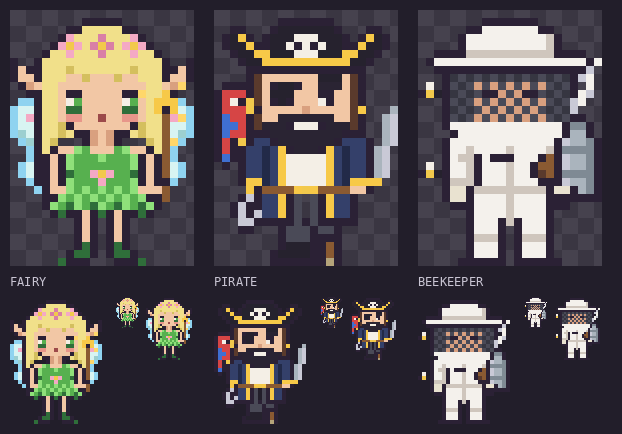
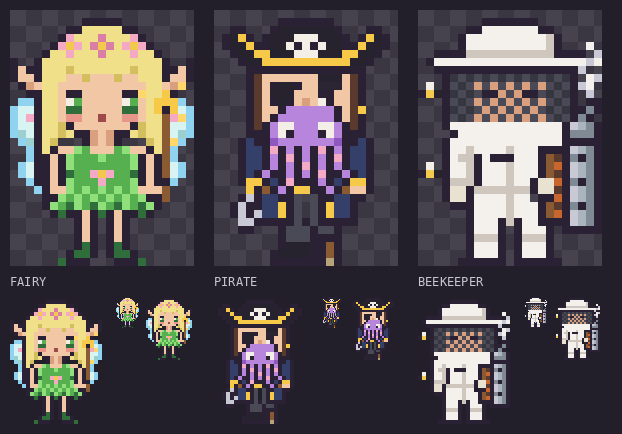
Pirate: octopus beard, no cutlass or parrot; beekeeper: new smoker; docs
Claude-Session: https://claude.ai/code/session_01YBrgJgq2b9doDCh6j6S5bC

diff --git a/drafts/workers-fairy-pirate-beekeeper.js b/drafts/workers-fairy-pirate-beekeeper.js
@@ -1,11 +1,11 @@
-// Черновик сотрудников: фея эльфийка, пират, пчеловод. В игру ещё не вставлены, ждут одобрения.
+// Черновик сотрудников: фея эльфийка, пират, пчеловод. В игру ещё не вставлены, ждут одобрения. Перки и скиллы ещё обсуждаются.
 // Спрайты 23×32, RLE как в game/index.html. Новых цветов в PAL нет. Превью drafts/fairy-pirate-beekeeper-preview.png.
 
 // ===== Фея эльфийка: светлые волосы, венок из цветов, длинные острые уши, зелёные глаза, платье из листьев, прозрачные крылья, волшебная палочка со звездой =====
   const FAIRY = ['23.', '9.5k9.', '7.2k5y2k7.', '6.kl3yz3ylk6.', '5.klqlyzqzylqlk5.', '4.k2yl3yz3yl2yk4.', 'k2.k15yk2.k', 'ks2k3yY7yY3y2ksk', 'k2sk3y2sY3sY2s3yk2sk', '.kSs2y11s2ysS*.', '2.2k2ys2k5s2k*2yZk2.', '.2?k2ysw:5sw:sy3Z?.', '?2[k2ys2/5s2/syZkZ[?', '?[lk2ys2c2sm2s2cs2yCl*?', '?2[k2yYk7skY2yC2[?', '?][k2yYy2kSsS2kyY2yC[]?', '.?]kyY3.kSsSk3.YyC*?.', '2.?kyk2s;:3s:;2skyC?2.', '2.?2ksk;3:;3:;kskC?2.', '.?[2ksk;7:;kskC[?.', '.?[2ksk/2:lql2:/kskC[?.', '2.?2ksk;3:l3:;ks2k?2.', '3.?k2s;:;:;:;:;3sC3.', '4.2k;:;:;:;:;:;2kC3.', '4.k;:/;:/;:/;:/;k4.', '5.k/2ksk/ks2k/k5.', '8.ksk.ksk8.', '8.ksk.ksk8.', '8.ksk.ksk8.', '8.k/k.k/k8.', '7.k2/k.k2/k7.', '6./3k3.3k/6.'];
 
-// ===== Пират: треуголка с черепом, повязка на глазу, чёрная борода, серьга, синий камзол с золотом, крюк, сабля, деревянная нога, красный попугай на плече =====
-  const PIRATE = ['23.', '8.7k8.', '2.2k3.k7bk3.2k2.', '.kbZk.k3b3w3bk.kZbk.', '.k2bZ2k2bwkwkw2b2kZ2bk.', '2.k2b2Z3b3w3b2Z2bk2.', '3.k2b11Z2bk3.', '4.15k4.', '4.kB7s3bsBk4.', '.4kBsk2bk2s3hsBk4.', 'k3$kBs3b3s2k2sBk4.', 'k$wkqBskbk3swk2sBk4.', 'k3$qk5sS5sBZ3.a', 'k@2$kB2s7h2sBk2.ap', 'k2@$kB3hk3wk3hBk2.ap', 'k@2$3k9h3k2.ap', 'k$kqk2,k7hk3,k.ap', 'k$2k2,",Zk3hkZ,"2,kap.', 'k@2k2,",Z5wZ,"2,kap.', '.k.k2,",Z5wZ,"2,kap.', '3.k2,",Z5wZ,"2,kap.', '3.k2Z",Z5wZ,"4Z2.', '4.Zk4CZqZ4C2sk3.', '3.kpk2,Zkg.gkZ2,k5.', '2.kp2k2,Zkg.gkZ2,k5.', '2.kpkp2,Zkg.gkZ2,k5.', '3.2p5kgkg5k5.', '3.2k3.k3gk2gk7.', '8.k3g4k7.', '8.k3b2kCk7.', '7.k4b2kCk7.', '7.7kFk7.'];
+// ===== Пират: треуголка с черепом, повязка на глазу, вместо бороды присосавшийся фиолетовый осьминог, серьга, синий камзол с золотом, крюк, деревянная нога =====
+  const PIRATE = ['23.', '8.7k8.', '2.2k3.k7bk3.2k2.', '.kbZk.k3b3w3bk.kZbk.', '.k2bZ2k2bwkwkw2b2kZ2bk.', '2.k2b2Z3b3w3b2Z2bk2.', '3.k2b11Z2bk3.', '4.15k4.', '4.kB7s3bsBk4.', '4.kBsk2bk2s3hsBk4.', '4.kBs3b3s2k2sBk4.', '4.kBskbksSswk2sBk4.', '4.kB2sk6фksBZ4.', '4.kBsk7фksBk4.', '4.kBkф2w3ф2wфkBk4.', '4.3kфwk3фkwф3k4.', '3.k,2kч7фч2k,k3.', '3.k2,klkфkфklkфk2,k3.', '3.k2,kфklkфkфklk2,k3.', '3.k2,kфkфklkфkфk2,k3.', '3.k,kф2kфkфkl2kфk,k3.', '3.k2Zk,kl3kфk,k2Zk3.', '4.ZkCkфkZq2kфkC2sk3.', '3.kpk2,2kg.g2k2,2k4.', '2.kp2k2,Zkg.gkZ2,k5.', '2.kpkp2,Zkg.gkZ2,k5.', '3.2p5kgkg5k5.', '3.2k3.k3gk2gk7.', '8.k3g4k7.', '8.k3b2kCk7.', '7.k4b2kCk7.', '7.7kFk7.'];
 
-// ===== Пчеловод: полностью белый защитный костюм, шлем с сеткой (лицо видно сквозь сетку), белые перчатки, дымарь с мехами в руке, две пчёлы =====
-  const BEEKEEPER = ['23.', '8.7k8.', '6.2k7W2k6.', '5.k10WDk5.', '5.k10WDk5.', '2.4k11D4k2.', '.k19WkW', '2.19kp.', '3.kGgGgGgGgGgGgGgGkpW.', '.w.kgGgSgSgSgSgSgGgk.W.', 'kqbkGgGg2kSgS2kgGgGkWp.', '3.kgGgSgSgSgSgSgGgpW2.', '3.kGgGgSgSgSgSgGgGp3.', '3.kgGgSgSgSgSgSgGg2k2.', '3.k14Wk2Ak.', '4.k13Wk2ak.', '3.k13Wkp2aAk', '3.k2WD4WD4WDk4Ak', '3.kW2DkW3k3WkCkp2aAk', '.w.k2WDk3WD2Wk2Ckp2aAk', 'kqbk2WDk3WD2WkBCk4Ak', '3.k3Dk3WD3W3kp2aAk', '3.k2xk9Dk2xkaAk', '3.k2xk4WD4W7k', '4.3k4WD4W3k4.', '6.k4WD4Wk6.', '6.k3WkDk3Wk6.', '6.k3Wk.k3Wk6.', '6.k3Dk.k3Dk6.', '6.k3Wk.k3Wk6.', '6.k3Wk.k3Wk6.', '5.6k.6k5.'];
+// ===== Пчеловод: полностью белый защитный костюм, шлем с сеткой (лицо видно сквозь сетку), белые перчатки, дымарь (жестяной бак с решёткой, крышка с изогнутым носиком, меха сбоку), две пчёлы =====
+  const BEEKEEPER = ['23.', '8.7k8.', '6.2k7W2k6.', '5.k10WDk5.', '5.k10WDk3.W.', '2.4k11D4k.p', '.k19WpW', '2.18kp2.', '3.kGgGgGgGgGgGgGgGk.Wp', '.w.kgGgSgSgSgSgSgGgkpW.', 'kqbkGgGg2kSgS2kgGgGk.p.', '3.kgGgSgSgSgSgSgGgk.2k', '3.kGgGgSgSgSgSgGgG2kAk', '3.kgGgSgSgSgSgSgGgkAk.', '3.k14WkpaAk', '4.k13Wk3Ak', '3.k14W5k', '3.k2WD4WD3W4kpaAk', '3.kW2DkW3k3WkCBkAkAk', '.w.k2WDk3WD3WkC-kpaAk', 'kqbk2WDk3WD3WkCBkpaAk', '3.k3Dk3WD2Wk2x-kAkAk', '3.k2xk7Dk2xBkpaAk', '3.k2xk4WD2W.2k-kpaAk', '4.3k4WD3WkCBkAkAk', '6.k4WD3WkC-kpaAk', '6.k3WkDk2W4kpaAk', '6.k3Wk.k3Wk.5k', '6.k3Dk.k3Dk6.', '6.k3Wk.k3Wk6.', '6.k3Wk.k3Wk6.', '5.6k.6k5.'];

diff --git a/docs/employees.md b/docs/employees.md
@@ -130,3 +130,11 @@
 «Восстание из мёртвых» срабатывает один раз за забег, это нужно хранить в забеге.
 
 При вставке нужна версия сохранения 11 и шаг в `migrate()`: новые сотрудники и их шкафчики.
+
+## План: фея эльфийка, пират, пчеловод (спрайты ждут одобрения)
+
+Спрайты в `drafts/workers-fairy-pirate-beekeeper.js`, превью `drafts/fairy-pirate-beekeeper-preview.png`. Новых цветов в `PAL` нет. Перки, скиллы и когда приходят, ещё обсуждаются.
+
+- **Фея эльфийка** (она): светлые волосы, венок из цветов, длинные острые уши, зелёные глаза, платье из листьев, прозрачные голубые крылья, волшебная палочка со звездой.
+- **Пират:** треуголка с черепом, повязка на глазу. Вместо бороды к лицу присосался фиолетовый осьминог: глаза на подбородке, щупальца свисают на грудь. Серьга, синий камзол с золотом, крюк вместо руки, деревянная нога.
+- **Пчеловод:** полностью белый защитный костюм, шлем с полями и сеткой, лицо видно сквозь сетку, белые перчатки. В руке дымарь: жестяной бак с решёткой, крышка с изогнутым носиком, из него дым, сбоку деревянные меха. Рядом летают две пчёлы.
